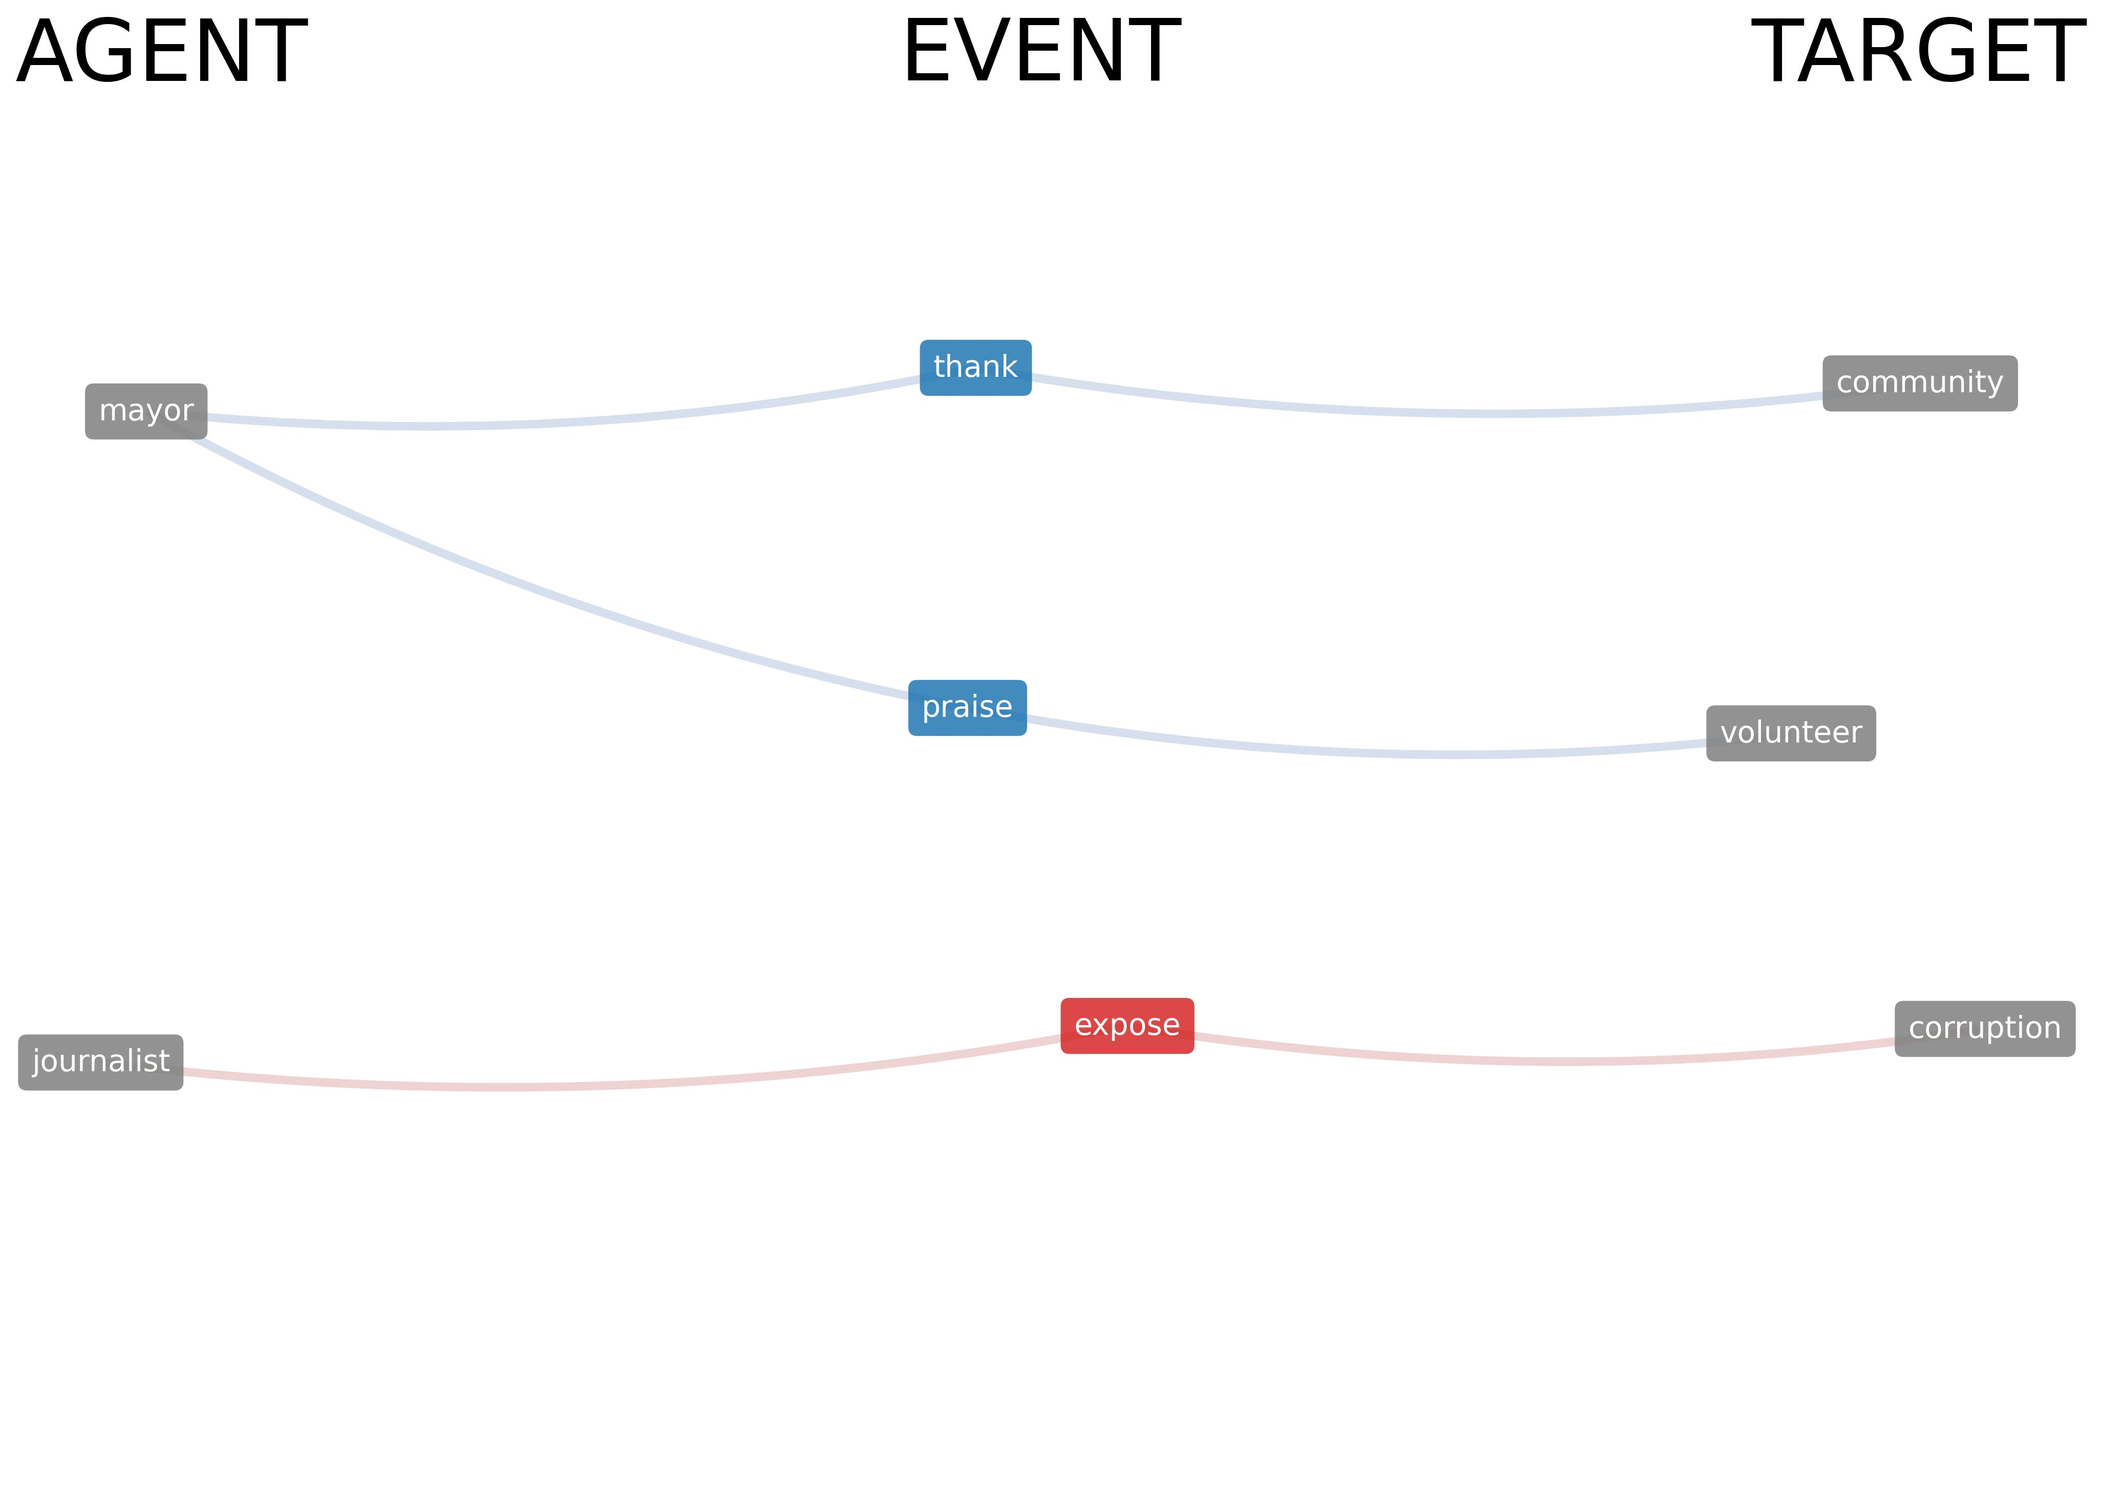
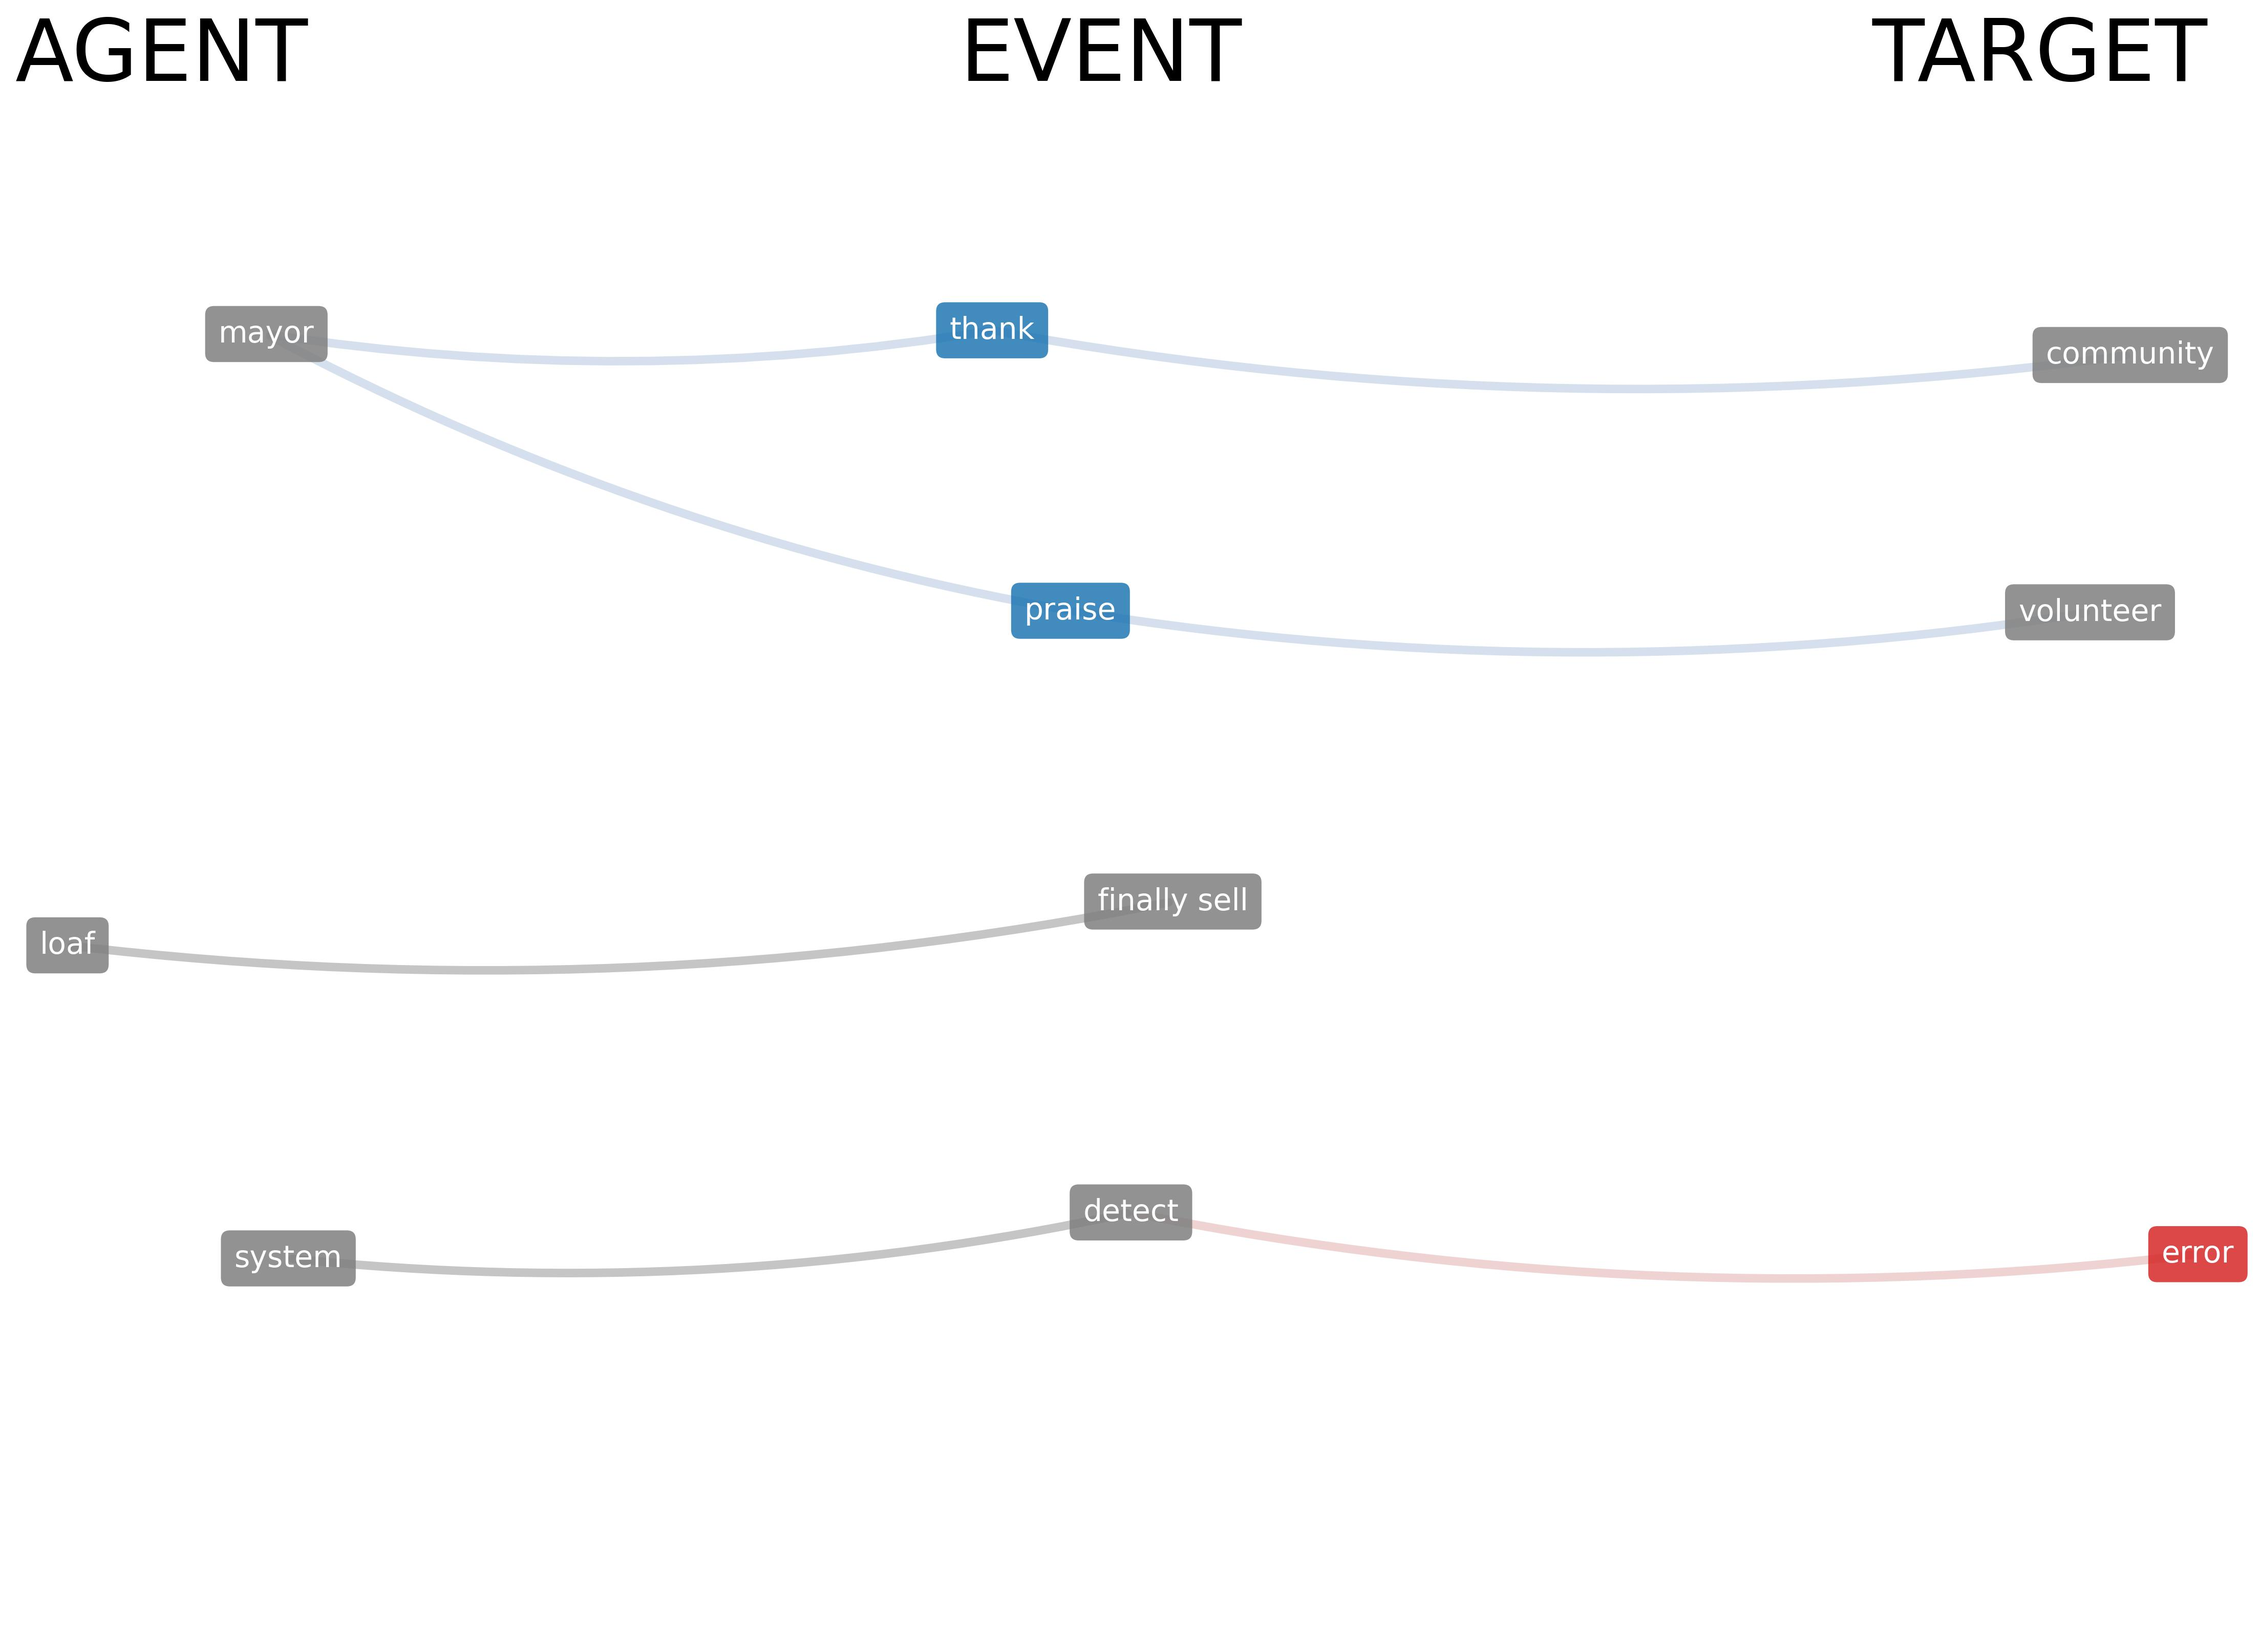
docs: update multi-sentence example and output tables in documentation

diff --git a/README.md b/README.md
@@ -90,14 +90,6 @@ display(svo)
 | physician | Target | doctor | Target | [[('hospital', [])], ['praise'], [('physician'... | 0 | 0 | 0 | 1 |
 | doctor | Target | physician | Target | N/A | 1 | N/A | 0 | 0 |
 
-> The ``passive_approx`` column flags rows where the *Agent* slot does not contain
-> a true semantic agent but rather a patient placed there as best-available
-> approximation (passive without by-phrase, e.g. *"the report was reviewed"*).
-> Set to ``1`` only for those Agent–Event and Agent–Agent edges; always ``0``
-> elsewhere. Older outputs without this column are still fully supported by the
-> analytics and plotting helpers (treated as ``0``).
-
-
 ```python
 tea.plot_svo_graph(svo)
 ```
@@ -110,7 +102,7 @@ tea.plot_svo_graph(svo)
 A richer example showing multiple agents and verbs across sentences:
 
 ```python
-text = """The journalist exposed the corruption. The mayor praised the volunteers and thanked the community."""
+text = """The system detected an error. Finally, the loaf was sold. The mayor praised the volunteers and thanked the community."""
 
 svo = tea.extract_svos_from_text(text)
 display(svo)
@@ -118,12 +110,20 @@ display(svo)
 
 | Node 1 | TEA | Node 2 | TEA2 | Hypergraph | Semantic-Syntactic | svo_id | passive_approx | is_passive |
 |:---|:---|:---|:---|:---|---:|---:|---:|---:|
-| journalist | Agent | expose | Event | [[('journalist', [])], ['expose'], [('corrupti... | 0 | 0 | 0 | 0 |
-| expose | Event | corruption | Target | [[('journalist', [])], ['expose'], [('corrupti... | 0 | 0 | 0 | 0 |
-| mayor | Agent | praise | Event | [[('mayor', [])], ['praise'], [('volunteer', [... | 0 | 1 | 0 | 0 |
-| praise | Event | volunteer | Target | [[('mayor', [])], ['praise'], [('volunteer', [... | 0 | 1 | 0 | 0 |
-| mayor | Agent | thank | Event | [[('mayor', [])], ['thank'], [('community', []... | 0 | 2 | 0 | 0 |
-| thank | Event | community | Target | [[('mayor', [])], ['thank'], [('community', []... | 0 | 2 | 0 | 0 |
+| system | Agent | detect | Event | [[('system', [])], ['detect'], [('error', [])]... | 0 | 0 | 0 | 0 |
+| detect | Event | error | Target | [[('system', [])], ['detect'], [('error', [])]... | 0 | 0 | 0 | 0 |
+| loaf | Agent | finally sell | Event | [[('loaf', [])], ['finally sell'], [], True, T... | 0 | 1 | 1 | 1 |
+| mayor | Agent | praise | Event | [[('mayor', [])], ['praise'], [('volunteer', [... | 0 | 2 | 0 | 0 |
+| praise | Event | volunteer | Target | [[('mayor', [])], ['praise'], [('volunteer', [... | 0 | 2 | 0 | 0 |
+| mayor | Agent | thank | Event | [[('mayor', [])], ['thank'], [('community', []... | 0 | 3 | 0 | 0 |
+| thank | Event | community | Target | [[('mayor', [])], ['thank'], [('community', []... | 0 | 3 | 0 | 0 |
+
+> The ``passive_approx`` column flags rows where the *Agent* slot does not contain
+> a true semantic agent but rather a patient placed there as best-available
+> approximation (passive without by-phrase, e.g. *"the report was reviewed"*).
+> Set to ``1`` only for those Agent–Event and Agent–Agent edges; always ``0``
+> elsewhere. Older outputs without this column are still fully supported by the
+> analytics and plotting helpers (treated as ``0``).
 
 ```python
 tea.plot_svo_graph(svo)
